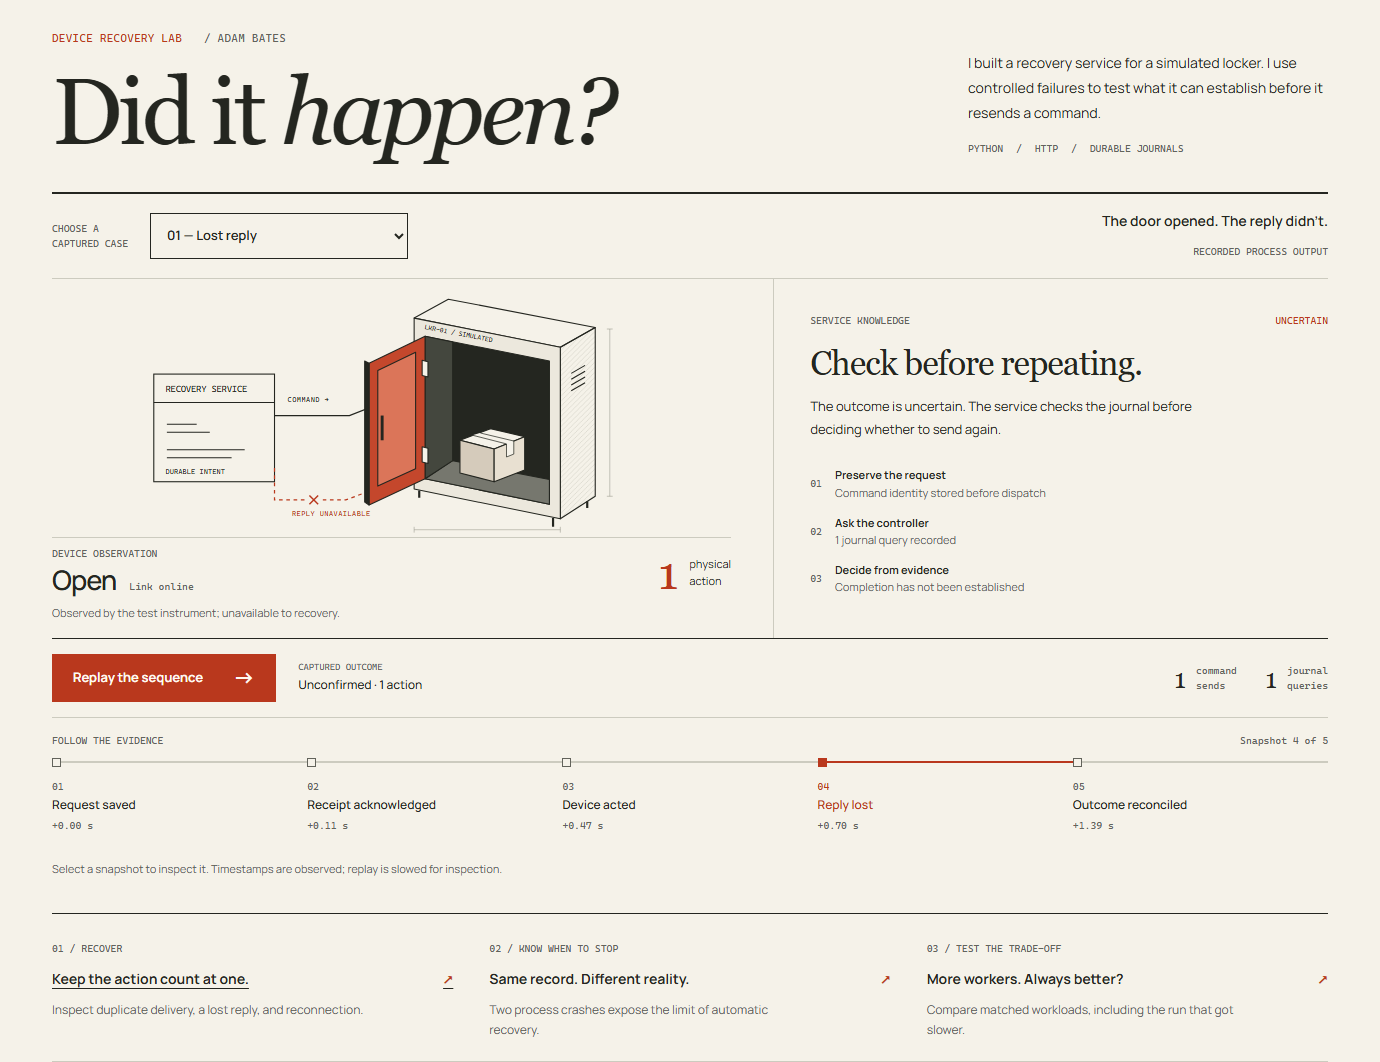
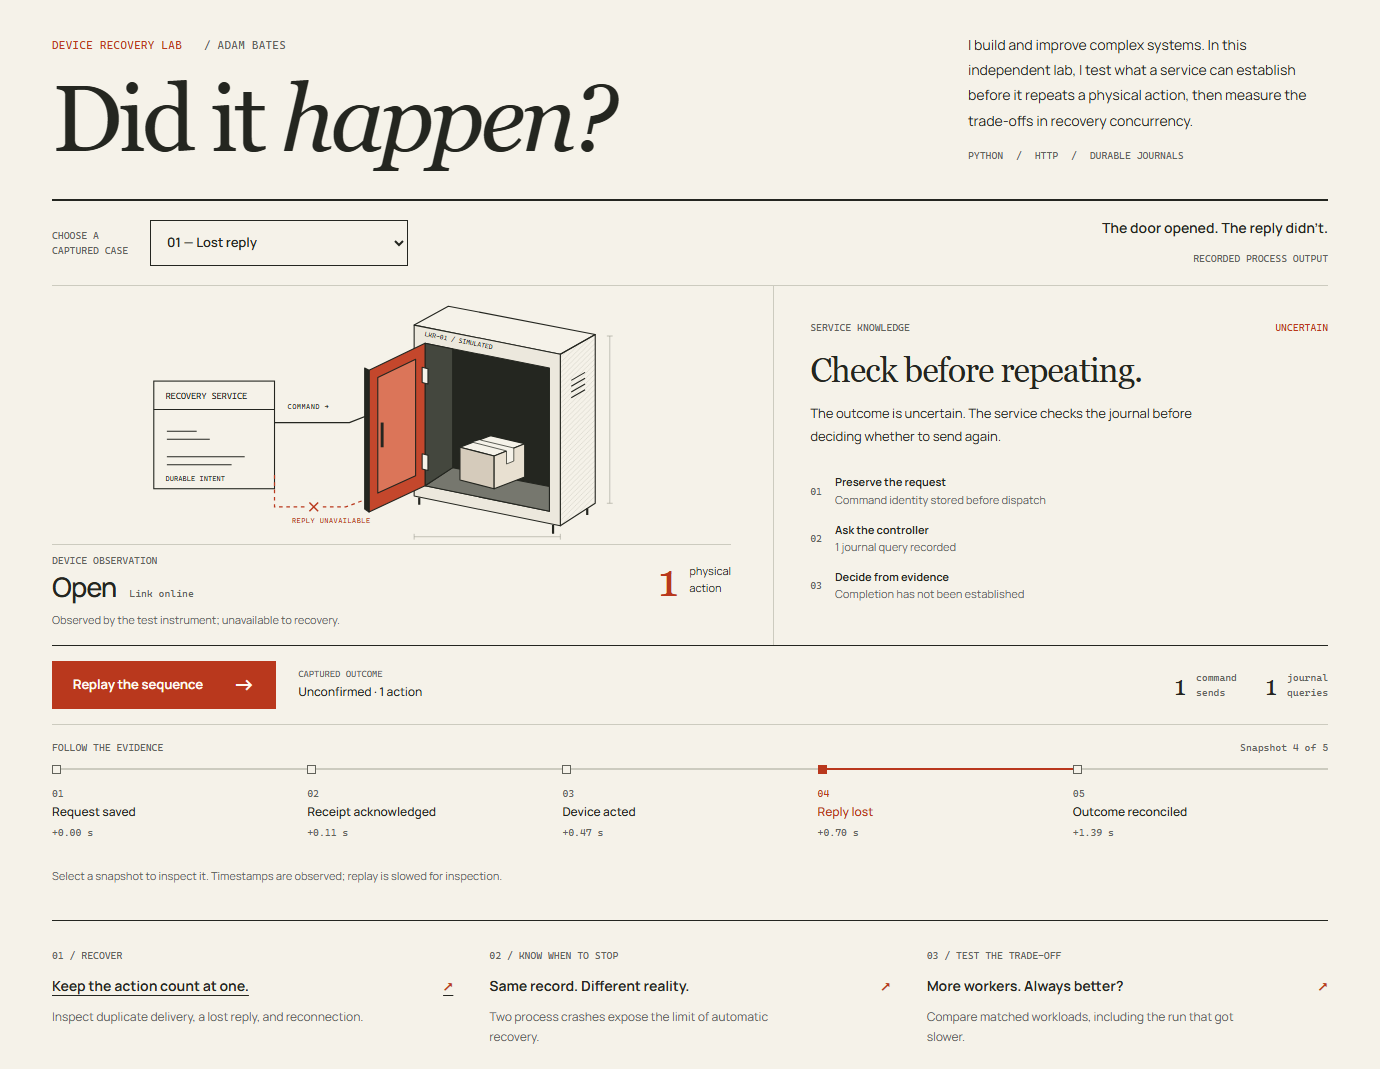
Connect recovery experiments to broader engineering work

diff --git a/demo/index.html b/demo/index.html
@@ -23,7 +23,7 @@
     <div class="masthead">
       <header class="site-header wrap">
         <a class="brand" href="https://github.com/B8Z"
-          ><span>Adam Bates<small>Software engineer</small></span></a
+          ><span>Adam Bates<small>Senior software engineer</small></span></a
         >
         <nav aria-label="Main">
           <a href="#boundary">The hard boundary</a
@@ -49,9 +49,9 @@
             </div>
             <div class="intro-aside">
               <p>
-                I built a recovery service for a simulated locker. I use
-                controlled failures to test what it can establish before it
-                resends a command.
+                I build and improve complex systems. In this independent lab,
+                I test what a service can establish before it repeats a physical
+                action, then measure the trade-offs in recovery concurrency.
               </p>
               <p class="stack">
                 PYTHON <span>/</span> HTTP <span>/</span> DURABLE JOURNALS

diff --git a/README.md b/README.md
@@ -7,6 +7,11 @@ Request a simulated parcel-locker release, break communication, and inspect the
 service's decision alongside the device's actual recorded behavior. Then compare
 one recovery worker with four under the same independently injected faults.
 
+This independent project reflects how I approach complex systems: establish
+what needs to stay correct, make failures observable, and evaluate an improvement
+under the same conditions. It connects integration, diagnostics, and performance
+optimization; it does not reproduce an employer system.
+
 [**Watch the recovery →**](https://b8z.github.io/device-recovery-lab/)
 · [Run the processes locally](#run-it) · [Read the controlled experiment](docs/workload.md)
 
